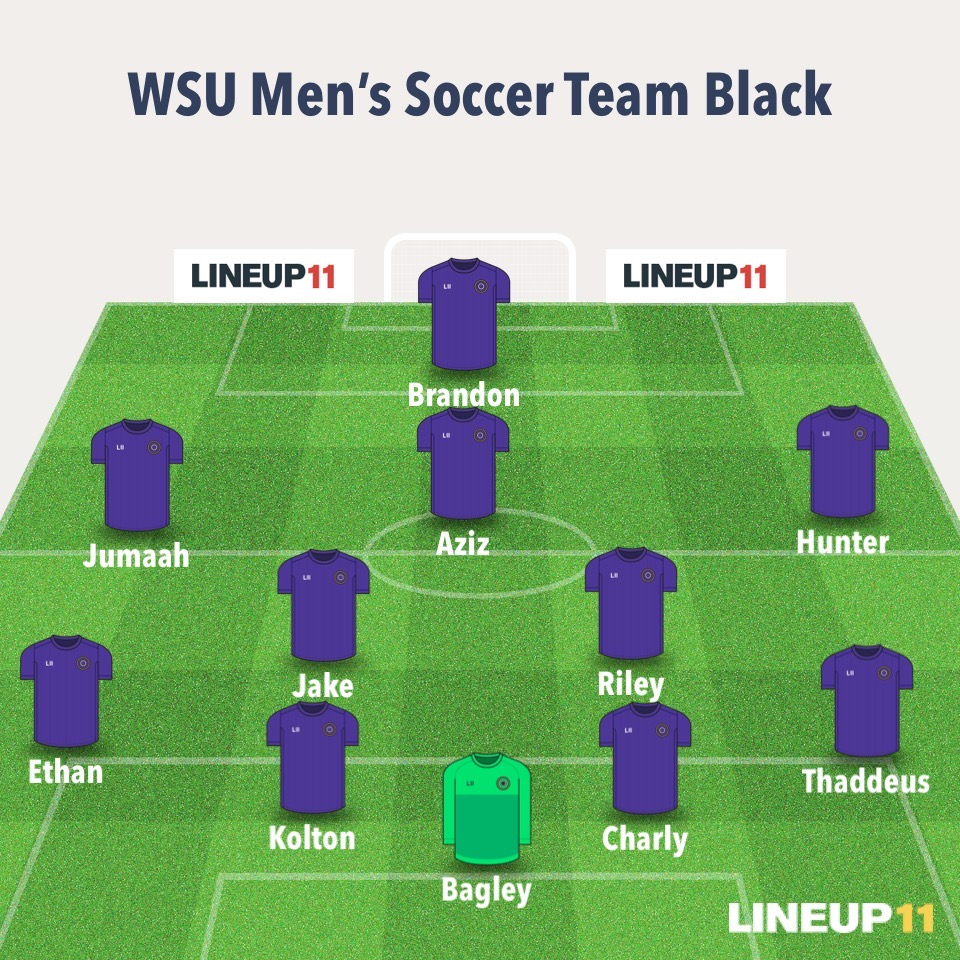
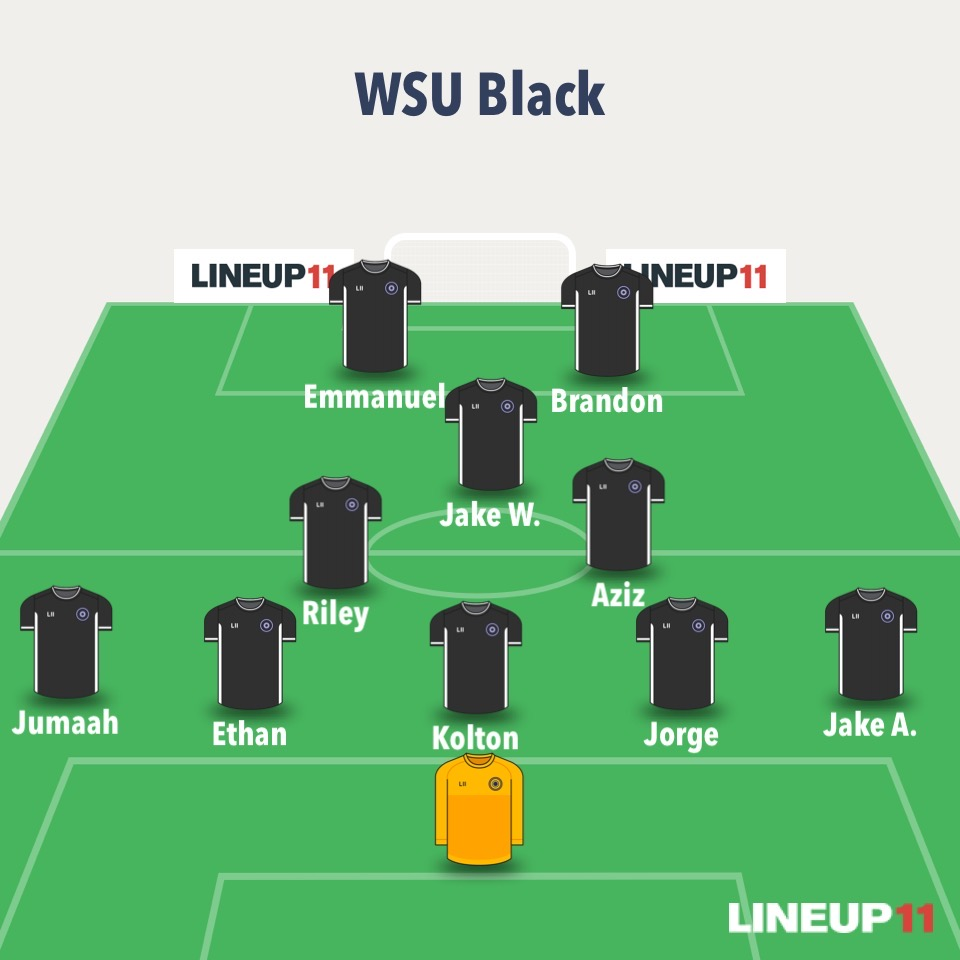
October 27 2022

diff --git a/index.html b/index.html
@@ -85,58 +85,53 @@
 
                     <th colspan="3">Forwards</th>
                     <tr>
-                        <td class="game"><p>Aziz Alarady <br><em><small>#96</small></em></p></td>
                         <td class="game"><p>Belal Glab <br><em><small>#23</small></em></p></td>
                         <td class="game"><p>Brandon Pearce <br><em><small>#28</small></em></p></td>
-                    </tr>
-                    <tr>
                         <td class="game"><p>Emmanuel Perez <br><em><small>#11</small></em></p></td>
-                        <td class="game"><p>Hunter Spencer <br><em><small>#7</small></em></p></td>
-                        <td class="game"><p>Jumaah Alfaihani <br><em><small>#94</small></em></p></td>
                     </tr>
                     <tr>
-                        <td class="practice"><p>Agustin Torena <br><em><small></small></em></p></td>
+                        <td class="game"><p>Jesus Tomasi <br><em><small>#14</small></em></p></td>
+                        <td class="game"><p>Jumaah Alfaihani <br><em><small>#94</small></em></p></td>
+                        <td><p><br></p></td>
+                    </tr>
+                    <tr>
                         <td class="practice"><p>Luis Arce<br><em><small></small></em></p></td>
                         <td class="practice"><p>Luis Jordan<br></p></td>
-                    </tr>
-                    <tr>
                         <td class="practice"><p>Will Naughton <br><em><small></small></em></p></td>
-                        <td><p><br></p></td>
-                        <td><p><br></p></td>
                     </tr>
 
                     <th colspan="3">Midfielders</th>
                     <tr>
+                        <td class="game"><p>Abdulaziz Bluwe <br><em><small>#96</small></em></p></td>
+                        <td class="game"><p>Alex Gil <br><em><small>#7</small></em></p></td>
                         <td class="game"><p>Asher Jensen <br><em><small>#71</small></em></p></td>
+                    </tr>
+                    <tr>
                         <td class="game"><p>Gabe Juarez <br><em><small>#21</small></em></p></td>
                         <td class="game"><p>Jake Williams <br><em><small>#19</small></em></p></td>
+                        <td class="game"><p>Jake Allen<br><em><small>#17</small></em></p></td>
                     </tr>
                     <tr>
                         <td class="game"><p>Patrick Hollmen<br><em><small>#29</small></em></p></td>
                         <td class="game"><p>Riley Wright <br><em><small>#10</small></em></p></td>
                         <td class="game"><p>Sergio Payá <br><em><small>#9</small></em></p></td>
                     </tr>
-                    <tr>
-                        <td class="game"><p>Teegan Smith <br><em><small>#25</small></em></p></td>
-                        <td><p><br></p></td>
-                        <td><p><br></p></td>
-                    </tr>
 
                     <th colspan="3">Defenders</th>
                     <tr>
                         <td class="game"><p>Charly Nuñez <br><em><small>#4</small></em></p></td>
+                        <td class="game"><p>Christian Kontey <br><em><small>#16</small></em></p></td>
                         <td class="game"><p>Cooper Sargent<br><em><small>#6</small></em></p></td>
-                        <td class="game"><p>Ethan Barnette<br><em><small>#3</small></em></p></td>
                     </tr>
                     <tr>
-                        <td class="game"><p>James Patten<br><em><small>#14</small></em></p></td>
+                        <td class="game"><p>Ethan Barnette<br><em><small>#3</small></em></p></td>
                         <td class="game"><p>Jorge Benitez <br><em><small>#26</small></em></p></td>
                         <td class="game"><p>Kaden Hecker <br><em><small>#2</small></em></p></td>
                     </tr>
                     <tr>
                         <td class="game"><p>Kolton Kitchin <br><em><small>#24</small></em></p></td>
-                        <td class="game"><p>Kontey Simpore <br><em><small>#16</small></em></p></td>
                         <td class="game"><p>Thaddeus Pappadakis <br><em><small>#18</small></em></p></td>
+                        <td><p><br></p></td>
                     </tr>
                     <th colspan="3">Goalkeeper</th>
                     <tr>
@@ -151,7 +146,7 @@
 
                 <a id="Line-up" title="Click here for the JavaScript Database of the players" onclick="print_roster()"><h1>Line-up for the next game</h1></a>
                 <figure>
-                    <a href="./img/lineup.jpeg" target="_blank"><img src="./img/lineup.jpeg"></a>
+                    <!-- <a href="./img/lineup.jpeg" target="_blank"><img src="./img/lineup.jpeg"></a> -->
                     <figcaption>Formation: 4-2-3-1</figcaption>
                 </figure>
                 <table>
@@ -159,18 +154,19 @@
                         <td class="label">Captains:</td>
                         <td class="player">Kolton Kitchin</td>
                         <td class="player">Tyler Bagley</td>
+                        <td class="player">Riley Wright</td>
                     </tr>
                     <tr>
                         <td class="label">Free-Kick:</td>
-                        <td class="player" colspan="2">Aziz</td>
+                        <td class="player" colspan="3">Riley Wright</td>
                     </tr>
                     <tr>
                         <td class="label">Penalty-Kick:</td>
-                        <td class="player" colspan="2">Ethan Barnette</td>
+                        <td class="player" colspan="3">Jumaah</td>
                     </tr>
                     <tr>
                         <td class="label">Corners:</td>
-                        <td class="player" colspan="2">Jake Williams</td>
+                        <td class="player" colspan="3">Jake Williams</td>
                     </tr>
                 </table>
             </section>

diff --git a/html/order.html b/html/order.html
@@ -15,12 +15,14 @@
 
     <body>
         <table class="t1" border="1">
-            <th class="one" scope="row" colspan="4">Kits Ordering</th>
+            <th class="one" scope="row" colspan="6">Kits Ordering</th>
             <tr>
                 <td>Name</td>
                 <td>Jersey Number</td>
                 <td>Jersey Size</td>
                 <td>Shorts Size</td>
+                <td>Paid Gear</td>
+                <td>Paid Vegas</td>
             </tr>
             <tr class="game">
                 <td>Jorge</td>
@@ -33,12 +35,14 @@
                 <td>96</td>
                 <td>Small</td>
                 <td>Medium</td>
+                <td>Yes</td>
             </tr>
             <tr class="game">
                 <td>Brandon</td>
                 <td>28</td>
                 <td>Large</td>
                 <td>Large</td>
+                <td>Yes</td>
             </tr>
             <tr class="game">
                 <td>Charly</td>
@@ -51,27 +55,32 @@
                 <td>11</td>
                 <td>Medium</td>
                 <td>Large</td>
+                <td>Yes</td>
+                <td>Yes</td>
             </tr>
             <tr class="game">
                 <td>Ethan</td>
                 <td>3</td>
                 <td>Medium</td>
                 <td>Medium</td>
+                <td>Yes</td>
             </tr>
             <tr class="game">
-                <td>Hunter</td>
+                <td>Alex Gil</td>
                 <td>7</td>
                 <td>Medium</td>
                 <td>Medium</td>
             </tr>
             <tr class="game">
-                <td>Jake</td>
+                <td>Jake W.</td>
                 <td>19</td>
                 <td>Medium</td>
                 <td>Medium</td>
+                <td>Yes</td>
+                <td>Yes</td>
             </tr>
             <tr class="game">
-                <td>James</td>
+                <td>Jesus</td>
                 <td>14</td>
                 <td>Large</td>
                 <td>Large</td>
@@ -81,24 +90,24 @@
                 <td>94</td>
                 <td>Medium</td>
                 <td>Medium</td>
+                <td>Yes</td>
+                <td>Yes</td>
             </tr>
             <tr class="game">
                 <td>Kolton</td>
                 <td>24</td>
                 <td>Large</td>
                 <td>Large</td>
+                <td>Yes</td>
             </tr>
-            <tr class="game">
-                <td>Santiago</td>
-                <td>12</td>
-                <td>Medium</td>
-                <td>Medium</td>
-            </tr>
+            
             <tr class="game">
                 <td>Sérgio</td>
                 <td>9</td>
                 <td>Small</td>
                 <td>Small</td>
+                <td>Yes</td>
+                <td>Yes</td>
             </tr>
             <tr class="game">
                 <td>Thaddeus</td>
@@ -111,6 +120,8 @@
                 <td>1</td>
                 <td>Large</td>
                 <td>Medium</td>
+                <td>Yes</td>
+                <td>Yes</td>
             </tr>
             <tr class="game">
                 <td>Riley </td>
@@ -129,42 +140,47 @@
                 <td>23</td>
                 <td>Medium</td>
                 <td>Medium</td>
+                <td>Yes</td>
+                <td>Yes</td>
             </tr>
             <tr class="game">
                 <td>Gabe</td>
                 <td>21</td>
                 <td>Large</td>
                 <td>Medium</td>
+                <td>Yes</td>
             </tr>
             <tr class="game">
                 <td>Kaden</td>
                 <td>2</td>
                 <td>Medium</td>
                 <td>Medium</td>
+                <td>Yes</td>
             </tr>
             <tr class="game">
                 <td>Kontey</td>
                 <td>16</td>
                 <td>Large</td>
                 <td>Large</td>
+                <td>Yes</td>
+                <td>Yes</td>
             </tr>
             <tr class="game">
-                <td>Said</td>
+                <td>Jake A.</td>
                 <td>17</td>
                 <td>Small</td>
                 <td>Small</td>
+                <td>Yes</td>
+                <td>Yes</td>
             </tr>
-            <tr class="game">
-                <td>Teegan</td>
-                <td>25</td>
-                <td>Medium</td>
-                <td>Medium</td>
-            </tr>
+
             <tr class="game">
                 <td>Patrick</td>
                 <td>29</td>
                 <td>Large</td>
                 <td>Large</td>
+                <td>Yes</td>
+                <td>Yes</td>
             </tr>
 
             <tr class="game">
@@ -172,6 +188,7 @@
                 <td>6</td>
                 <td>Large</td>
                 <td>Medium</td>
+                <td>Yes</td>
             </tr>
 
             <tr class="special">
@@ -185,6 +202,20 @@
                 <td>30</td>
                 <td>Medium</td>
                 <td>Small</td>
+            </tr>
+
+            <tr class="special">
+                <td>Player Quit</td>
+                <td>12</td>
+                <td>Medium</td>
+                <td>Medium</td>
+            </tr>
+
+            <tr class="special">
+                <td>Player Quit</td>
+                <td>25</td>
+                <td>Medium</td>
+                <td>Medium</td>
             </tr>
 
             <tr class="special">
